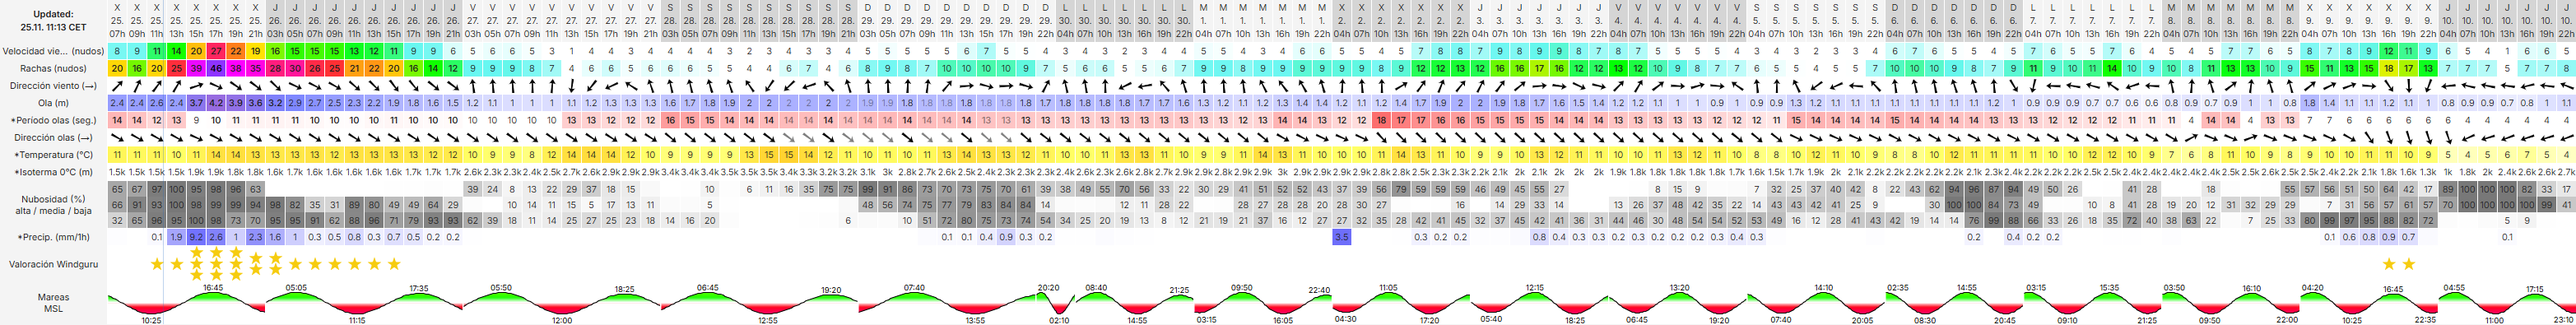
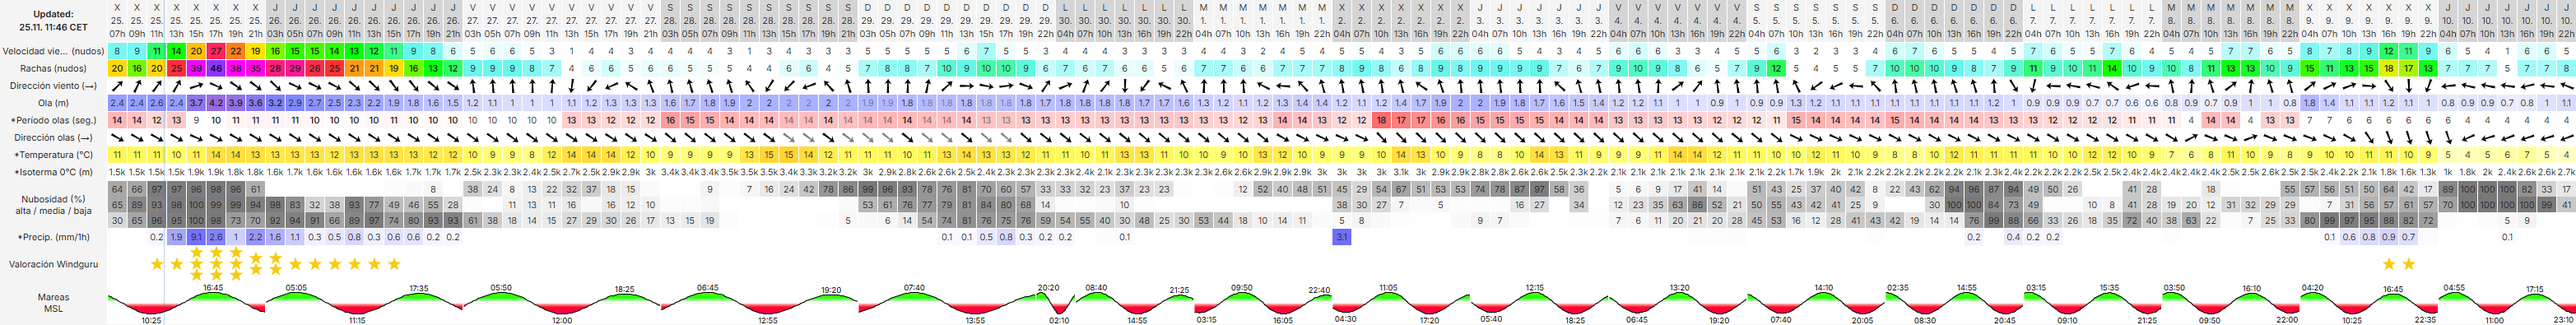
Añadir el widget de Surf-Forecast y la cuadrícula de mareas

diff --git a/index.html b/index.html
@@ -8,7 +8,8 @@
     <link rel="manifest" href="manifest.webmanifest" />
     <link rel="icon" type="image/png" sizes="192x192" href="assets/meteomario-icon-192.png" />
     <link rel="apple-touch-icon" sizes="180x180" href="assets/meteomario-icon-180.png" />
-    <link rel="stylesheet" href="styles.css?v=avatar-80" />
+    <link rel="stylesheet" href="https://es.surf-forecast.com/stylesheets/widget.css" />
+    <link rel="stylesheet" href="styles.css?v=surf-widget" />
   </head>
   <body>
     <main class="dashboard">
@@ -42,7 +43,7 @@
         <div class="section-heading"><h2 id="mareas-title">Mareak</h2><span>Donostia</span></div>
         <div class="capture-grid capture-grid--tides">
           <article class="capture-card"><img src="assets/captures/tide-status.png" alt="Marearen uneko egoera" /></article>
-          <article class="capture-card capture-card--wide"><img src="assets/captures/tide-chart.png" alt="Eguneko mareen grafikoa" /></article>
+          <article class="capture-card capture-card--wide"><img src="assets/captures/tide-chart.png" alt="Eguneko mareen grafikoa sareta batekin" /></article>
           <article class="capture-card capture-card--wide"><img src="assets/captures/tide-coefficient.png" alt="Marea-koefizientea" /></article>
         </div>
       </section>
@@ -61,6 +62,30 @@
           </div>
         </div>
         <article class="capture-card capture-card--scroll"><img id="surf-forecast-image" src="assets/captures/surf-hourly.png" data-hourly="assets/captures/surf-hourly.png" data-six-day="assets/captures/surf-six-day.png" alt="Zurriolako orduz orduko surf-iragarpena" /></article>
+      </section>
+
+      <section id="surf-widget" class="surf-widget" aria-labelledby="surf-widget-title">
+        <div class="section-heading"><h2 id="surf-widget-title">Surf-Forecast widgeta</h2><span>Zurriola</span></div>
+        <div class="wf-width-cont surf-fc-widget widget-centered">
+          <div class="widget-container">
+            <div class="external-cont">
+              <iframe
+                class="surf-fc-i"
+                src="https://es.surf-forecast.com/breaks/Zurriola-hondartza/forecasts/widget/m"
+                title="Zurriolako surf-iragarpena, Surf-Forecast"
+                loading="lazy"
+              ></iframe>
+              <div class="footer">
+                <a class="logo" href="https://es.surf-forecast.com/" aria-label="Surf-Forecast">
+                  <img src="https://www.surf-forecast.com/images/widget.png" width="1" height="1" alt="" loading="lazy" />
+                </a>
+                <div class="about" id="cmt">
+                  Ikusi <a href="https://es.surf-forecast.com/breaks/Zurriola-hondartza">Zurriolako surf-iragarpen osoa</a> Surf-Forecast-en.
+                </div>
+              </div>
+            </div>
+          </div>
+        </div>
       </section>
     </main>
     <script src="https://cdn.jsdelivr.net/npm/hls.js@1"></script>

diff --git a/styles.css b/styles.css
@@ -30,4 +30,5 @@ h3 { font-size: 1rem; margin: 0 0 10px; }
 .surf-switch { display: inline-flex; padding: 3px; border-radius: 999px; background: #e9eef3; box-shadow: inset 0 1px 2px #0002; white-space: nowrap; }
 .surf-switch button { appearance: none; border: 0; border-radius: 999px; padding: 8px 14px; background: transparent; color: #4d6380; font: inherit; font-size: .875rem; cursor: pointer; }
 .surf-switch button.is-active { background: #fff; color: #315fc5; box-shadow: 0 1px 3px #0003; }
+.surf-widget .surf-fc-i { display: block; width: 100%; height: 424px; border: 0; color-scheme: light; }
 @media (max-width: 620px) { .dashboard { padding-inline: 12px; } .webcam-grid { grid-template-columns: 1fr; } .capture-grid--tides { grid-template-columns: 1fr; } .capture-grid--tides .capture-card:first-child { max-width: 390px; } .section-heading--surf { align-items: flex-start; flex-direction: column; } }
